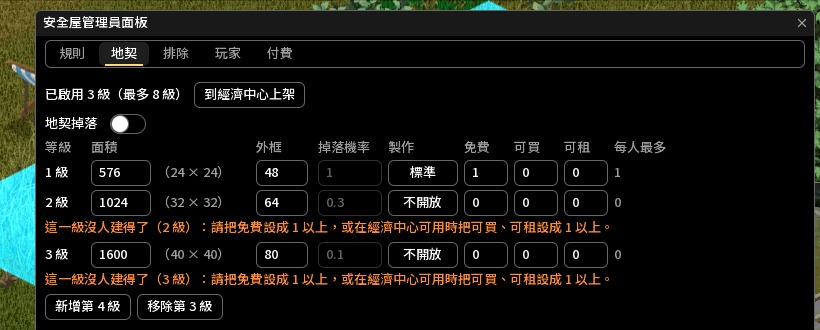
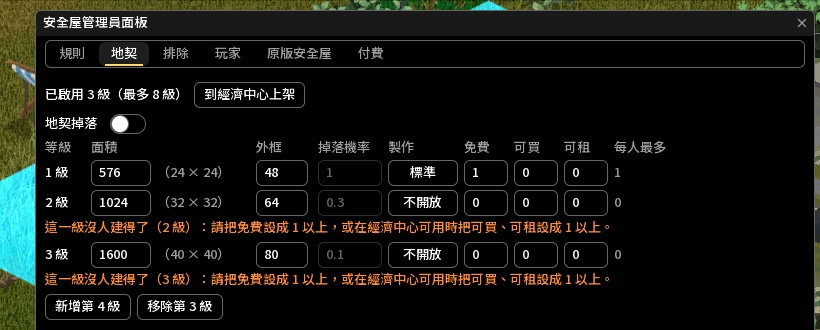
管理員面板的原版安全屋改成獨立分頁
使用者看完 c3af13d 後要原版安全屋自己一頁：「額外一個分頁比較好，才不會資訊多的時候跟其他東西混合了」。

- 分頁 foreign 排在玩家與付費之間，標籤沿用原段標題各語的字（IGUI_MSH_Admin_ForeignHead 改名 IGUI_MSH_Admin_Tab_foreign）；頁內不再有標題，底列只有〔重新載入〕。規則頁的遷移狀態與需要處理的安全屋照舊。
- 分頁列不給寬度、照字寬排，面板至少那麼寬：框架 Tabs 不縮字、放不下就畫出框外，西語六頁實測右緣 752 px，預設面板的分頁列只有 756 px。
- FOREIGN_APPEARED 提示 16 語改成指向新分頁；用 CatLang 與原版字型模擬換行（數字到三位數），最多 5 行，在上限內。
- Steam 指南「五個分頁」改成六個，09-admin-rules、10-admin-deeds 中英四張改取 ui-mp 新的兩輪；README、CHANGELOG 同步。

驗證：verify_mod 18 項全過；smoke_harness 2299 項全過（分頁列照字寬排、規則頁沒有這段、原版安全屋頁沒有〔套用變更〕各 1 項，逐一植入違規都會 FAIL）。E2E foreign-mp 繁中 sh-fb-after-1023c、西語 sh-fb-after-es-1023c 各 20 步／100 檢查、uiErrors=0；ui-mp 繁中 sh-tab6-uich-1023a、英文 sh-tab6-uien-1023a 都是 A 43 步／78 檢查、B 10 步／12 檢查、uiErrors=0。

Changed region(s): [[0.9756, 0.1212, 1.0, 0.7273], [0.3049, 0.1212, 0.4878, 0.1818], [0.9756, 0.8485, 1.0, 1.0]]

diff --git a/README.md b/README.md
@@ -28,7 +28,7 @@ Project Zomboid Build 42 MOD。
 - **車開不進去**：車上只要有人不能進那間安全屋（包括坐乘客座的人；拖著的拖車也算），車子開到邊界前就停下來，畫面提示是誰不能進（你自己或車上的人）。原本就停在範圍裡的車可以往外開走，只是不能再往裡開。屋主、分享名單上的人和管理員照常開進去；每一間安全屋都適用，包括不是本 MOD 建的。
 - **伺服器權威**：建立、放棄、分享、名額都由伺服器判定；有人用原版封包改本 MOD 安全屋的屋主、名稱或成員時，伺服器每輪把它改回來；被刪掉的安全屋自動重建。
 - **名額**：每個地契等級各設三個數字：每位玩家免費幾間、最多買斷幾個名額、最多同時租幾個名額，這一級每人最多幾間＝三者相加；預設只有 1 級免費 1 間。買斷與月租需要 Economy，價格由管理員逐級設定。
-- **管理員面板**：五頁（規則、地契、排除、玩家、付費），改完按「套用變更」立即寫回伺服器沙盒設定並同步給線上玩家。
+- **管理員面板**：六頁（規則、地契、排除、玩家、原版安全屋、付費），改完按「套用變更」立即寫回伺服器沙盒設定並同步給線上玩家。
 
 ## 需要什麼
 
@@ -105,10 +105,11 @@ Project Zomboid Build 42 MOD。
 
 需要原版「設定安全屋」權限（`CanSetupSafehouses`）的角色才能開。
 
-- **規則**：建立方式、間距、每間最多塊數、分享上限、保留天數、閒置收回天數與保險開關、陣營分享、重新框選的時限與次數、玩家在地面看得到哪些別人的安全屋、物品搜尋（關閉／只指引／可以遠距拿，以及遠距拿取可以站在安全屋外幾格內；只在選「可以遠距拿」時能改）；也顯示伺服器設定狀態、接管舊安全屋的結果、不歸本 MOD 管的原版安全屋（可以〔傳送〕或〔釋出...〕），以及處理異常安全屋（重新綁定屋主或釋出）。
+- **規則**：建立方式、間距、每間最多塊數、分享上限、保留天數、閒置收回天數與保險開關、陣營分享、重新框選的時限與次數、玩家在地面看得到哪些別人的安全屋、物品搜尋（關閉／只指引／可以遠距拿，以及遠距拿取可以站在安全屋外幾格內；只在選「可以遠距拿」時能改）；也顯示伺服器設定狀態、接管舊安全屋的結果，以及處理異常安全屋（重新綁定屋主或釋出）。
 - **地契**：只列啟用的等級，表格底下〔新增第 N 級〕〔移除第 N 級〕（最多 8 級，按〔套用變更〕才生效）；地契掉落總開關（關著時掉落欄反灰）；各級最大面積（旁邊寫出相當於幾乘幾，打字時跟著變）、外框上限、掉落機率、製作難度（滑鼠移到「製作」格可預覽配方），以及名額三欄「免費」「可買」「可租」（填數字），「每人最多」欄自動顯示三者相加。有支援的 Economy 時多一顆「到經濟中心上架」。
 - **排除**：道路、安全邊界與類別；資源點的判定方式與類別（沒有 MiniMap 時藏起來，寫明要裝小地圖 MOD 才有這個功能）；禁建區個數與〔管理禁建區〕（清單、搜尋、〔傳送〕、新增、刪除與壓到各禁建區的安全屋在另開的禁建區視窗）。
 - **玩家**：伺服器分頁搜尋（每頁 50 位），可以按〔1 級免費名額...〕替個別玩家改 1 級的免費名額（只改 1 級；留空＝用全服預設）、查看、代為放棄（會寫稽核記錄）。
+- **原版安全屋**：不歸本 MOD 管的原版安全屋（接管時留下的，或裝好本 MOD 之後才出現的），每間可以〔傳送〕過去看或〔釋出...〕；詳見下面「從 Better Safehouse 或原版安全屋接手」。
 - **付費**（Economy 可用時）：逐級設定買斷價、每期租金與保險每日價（只列啟用的等級），以及共用的幣別、租期、寬限、提醒與自動續租。每人能買、租幾個不在這頁設，頁面上寫著「要不要販售、每人能買或租幾個，看「地契」頁的可買、可租。」
 
 原版管理員指令 `/releasesafehouse`、`/addusertosafehouse`、`/kickuserfromsafehouse` 以安全屋名稱找第一間符合的，名稱重複時會打到別間；用它加進本 MOD 安全屋的人也會在下一輪被移除。本 MOD 的安全屋一律從管理員面板處理。
@@ -139,7 +140,7 @@ Project Zomboid Build 42 MOD。
 
 - 屋主、範圍、名稱照舊；原本的成員（含 Better Safehouse 的副管理者）變成一般分享對象，權限是成員、用電器、搬家具、建造、農耕（等同原版成員能做的事），沒有「邀請」與「管理」；屋主之後可以自己調整。
 - 接管來的安全屋都算 1 級、先佔屋主的 1 級免費名額；超出免費名額的也全部保留、不需要付費名額，只是屋主再建 1 級時要等免費名額空出來或用付費名額。壓到道路或資源點的舊安全屋也保留。接管來的安全屋不能重新框選。
-- 這些安全屋留在原地當原版安全屋，本 MOD 不管理也不自動刪除：範圍不合法、屋主名稱不合法、和另一間範圍或左上角相同、超過全服 256 間，或成員多到接管後會擠掉之後新建與分享的空間（依建立時間由舊到新接管，接管最多用掉一半的資料空間）。清單在 `Zomboid/Lua/MinidoracatSafehouse/<伺服器名>/migration-completion.txt` 的 `skip` 列。它們和裝好本 MOD 之後才出現的原版安全屋一樣不會到期：閒置收回不管它們，原版的到期刪除也因為 `SafeHouseRemovalTime` 必須是 0 而關著，所以不會自己消失。管理員面板「規則」頁的「原版安全屋」列出它們：屋主、成員人數、大小、座標、多久沒人進去（伺服器關著的時間也算，閒置收回不算）、接管時留下的原因，超過閒置收回天數的另外標出；每間可以〔傳送〕過去看，或〔釋出...〕拿掉那一間的保護（屋裡的東西留在原地）。最多列 20 間，最久沒人進去的在前。之後伺服器上多了原版安全屋時，在線管理員會收到提示。名稱超過 40 字的會截短。
+- 這些安全屋留在原地當原版安全屋，本 MOD 不管理也不自動刪除：範圍不合法、屋主名稱不合法、和另一間範圍或左上角相同、超過全服 256 間，或成員多到接管後會擠掉之後新建與分享的空間（依建立時間由舊到新接管，接管最多用掉一半的資料空間）。清單在 `Zomboid/Lua/MinidoracatSafehouse/<伺服器名>/migration-completion.txt` 的 `skip` 列。它們和裝好本 MOD 之後才出現的原版安全屋一樣不會到期：閒置收回不管它們，原版的到期刪除也因為 `SafeHouseRemovalTime` 必須是 0 而關著，所以不會自己消失。管理員面板的「原版安全屋」頁列出它們：屋主、成員人數、大小、座標、多久沒人進去（伺服器關著的時間也算，閒置收回不算）、接管時留下的原因，超過閒置收回天數的另外標出；每間可以〔傳送〕過去看，或〔釋出...〕拿掉那一間的保護（屋裡的東西留在原地）。最多列 20 間，最久沒人進去的在前。之後伺服器上多了原版安全屋時，在線管理員會收到提示。名稱超過 40 字的會截短。
 - 原版或 Better Safehouse 的「在安全屋重生」勾選會換成本 MOD 的重生點（那間安全屋中央）；安全屋聊天不搬。
 - Better Safehouse 存在世界資料裡的記錄不讀也不改。
 - Better Safehouse 自己的地契物品（3.1.1 有 5 種）在它從 `Mods=` 拿掉後，第一次載入就會從玩家身上與容器裡消失，裝回來也找不回。要補償的話，由管理員改發本 MOD 的地契；切換前先公告。

diff --git a/STEAM_GUIDE_EN.md b/STEAM_GUIDE_EN.md
@@ -485,10 +485,10 @@ The admin panel reminds you if these differ; nothing is disabled.
 [*] [b]Apply[/b]: press "Apply changes"; changes are written to the server's sandbox settings at once and synced to online players.
 [*] [b]Window size[/b]: drag the bottom-right corner to resize.
 [/list]
-[h3]Five tabs[/h3]
+[h3]Six tabs[/h3]
 {{img:10-admin-deeds-en.jpg}}
 [list]
-[*] [b]Rules[/b]: creation mode, gap, max pieces, share limit, keep days, idle release days and "Sell idle-release insurance", faction sharing, redraw time and count, which other safehouses players see on the ground, and item search (Off / Guide only / Remote take, plus how many tiles outside the safehouse remote take still works); also the server settings status, takeover results, vanilla safehouses and safehouses needing attention.
+[*] [b]Rules[/b]: creation mode, gap, max pieces, share limit, keep days, idle release days and "Sell idle-release insurance", faction sharing, redraw time and count, which other safehouses players see on the ground, and item search (Off / Guide only / Remote take, plus how many tiles outside the safehouse remote take still works); also the server settings status, takeover results and safehouses needing attention.
 [*] [b]Deeds[/b]: only enabled tiers, with "Add tier N" / "Remove tier N" below the table (up to 8 tiers; takes effect on "Apply changes").
 [list]
 [*] The master "Deeds drop as loot" switch; the loot column is greyed out while it's off.
@@ -499,6 +499,7 @@ The admin panel reminds you if these differ; nothing is disabled.
 [/list]
 [*] [b]Exclusions[/b]: roads, margin and road kinds; resource detection and categories (hidden without MiniMap, with a note that it needs the MiniMap mod); no-build zones: "Manage no-build zones" hides the panel and opens the no-build zone window on the right side of the screen. Each zone in the list shows its top-left corner, outline and piece count; you can search names, press "Teleport" to go to its center (needs the teleport-to-coordinates permission) and "Delete" (asks first); safehouses already inside a zone are listed under it (they aren't removed, so the admin decides what to do). While the window is open, zones are drawn bright red on the ground and the one you teleported to is yellow. "Add no-build zone" opens the same area tool as creating a safehouse (drag or walk to two corners, add or cut pieces), then you name it and press "Save zone"; saving or canceling brings you back to the zone window. Up to 100 zones; closing the zone window returns to the admin panel.
 [*] [b]Players[/b]: server-side paged search (50 per page); "Tier 1 free slots…" changes one player's tier 1 free slots (tier 1 only; leave it empty to use the server default), view, or release on their behalf (logged to the audit log).
+[*] [b]Vanilla safehouses[/b]: vanilla safehouses this mod doesn't manage; see "Vanilla safehouses" below.
 [*] [b]Paid slots[/b] (with Economy available): buy price, rent per period and insurance per day for each enabled tier, plus shared currency, period, grace, reminder and auto-renew.
 [list]
 [*] Only currencies enabled in the Economy are listed; you're warned if the current one gets disabled.
@@ -513,7 +514,7 @@ The admin panel reminds you if these differ; nothing is disabled.
 [/list]
 [h3]Vanilla safehouses[/h3]
 [list]
-[*] [b]Where[/b]: "Vanilla safehouses" on the Rules tab lists the vanilla safehouses this mod doesn't manage (left over from the takeover, or created after this mod was installed).
+[*] [b]Where[/b]: the admin panel's Vanilla safehouses tab lists the vanilla safehouses this mod doesn't manage (left over from the takeover, or created after this mod was installed).
 [*] [b]Each row shows[/b]: owner, member count, size, coordinates, how long nobody has gone in (server downtime counts here, unlike idle release), and where it came from; the ones past the idle release days are marked. Up to 20 are listed, longest unvisited first.
 [*] [b]"Teleport"[/b]: takes you to its center (needs the teleport-to-coordinates permission).
 [*] [b]"Release…"[/b]: removes that safehouse's protection; what's inside stays where it is, and it can't be undone.
@@ -620,7 +621,7 @@ These stay where they are as vanilla safehouses; this mod doesn't manage them or
 [list]
 [*] [b]List[/b]: the skip lines in Zomboid/Lua/MinidoracatSafehouse/<server name>/migration-completion.txt.
 [*] [b]They never expire[/b]: idle reclaim leaves them alone, and the vanilla expiry is off because SafeHouseRemovalTime must be 0, so they never go away on their own; the same goes for vanilla safehouses that appear after this mod is installed.
-[*] [b]Handling them[/b]: "Teleport" there to take a look, or "Release…" them, from "Vanilla safehouses" on the admin panel's Rules tab.
+[*] [b]Handling them[/b]: "Teleport" there to take a look, or "Release…" them, from the admin panel's Vanilla safehouses tab.
 [/list]
 [h3]Rolling back[/h3]
 [list]

diff --git a/STEAM_GUIDE.md b/STEAM_GUIDE.md
@@ -485,10 +485,10 @@ https://steamcommunity.com/sharedfiles/filedetails/?id=3819478078
 [*] [b]套用[/b]：改完按〔套用變更〕，立即寫回伺服器沙盒設定並同步給線上玩家。
 [*] [b]視窗大小[/b]：拉右下角可以改大小。
 [/list]
-[h3]五個分頁[/h3]
+[h3]六個分頁[/h3]
 {{img:10-admin-deeds-zh.jpg}}
 [list]
-[*] [b]規則[/b]：建立方式、間距、每間最多塊數、分享上限、保留天數、閒置收回天數與「販售閒置保險」、陣營分享、重新框選的時限與次數、玩家在地面看得到哪些別人的安全屋、物品搜尋（關閉／只指引／可以遠距拿，以及遠距拿取可以站在安全屋外幾格內）；也顯示伺服器設定狀態、接管舊安全屋的結果、原版安全屋與需要處理的安全屋。
+[*] [b]規則[/b]：建立方式、間距、每間最多塊數、分享上限、保留天數、閒置收回天數與「販售閒置保險」、陣營分享、重新框選的時限與次數、玩家在地面看得到哪些別人的安全屋、物品搜尋（關閉／只指引／可以遠距拿，以及遠距拿取可以站在安全屋外幾格內）；也顯示伺服器設定狀態、接管舊安全屋的結果與需要處理的安全屋。
 [*] [b]地契[/b]：只列啟用的等級，表格底下〔新增第 N 級〕〔移除第 N 級〕（最多 8 級，按〔套用變更〕才生效）。
 [list]
 [*] 地契掉落總開關，關著時掉落欄反灰。
@@ -499,6 +499,7 @@ https://steamcommunity.com/sharedfiles/filedetails/?id=3819478078
 [/list]
 [*] [b]排除[/b]：道路、安全邊界與類別；資源點的判定方式與類別（沒有 MiniMap 時藏起來，寫明要裝小地圖 MOD 才有這個功能）；禁建區：按〔管理禁建區〕先收起面板，在畫面右側開禁建區視窗。清單每個禁建區寫左上角、外框與塊數，可以搜尋名稱，按〔傳送〕到它的中央（要有傳送到座標的權限），有〔刪除〕（先確認），已經有安全屋壓到的另外列出（不會被移除，由管理員決定怎麼處理）；視窗開著時地上用亮紅色畫出禁建區，傳送過去的那個用黃色。〔新增禁建區〕用和建立安全屋一樣的框選（拖曳或走到兩角，可以加入、挖掉拼成多塊）框出範圍、取名稱後按〔儲存禁建區〕，存好或取消後回到禁建區視窗。最多 100 個；關掉禁建區視窗就回到管理員面板。
 [*] [b]玩家[/b]：伺服器分頁搜尋（每頁 50 位），可以按〔1 級免費名額...〕替個別玩家改 1 級的免費名額（只改 1 級；留空＝用全服預設）、查看、代為放棄（會寫稽核記錄）。
+[*] [b]原版安全屋[/b]：不歸本 MOD 管的原版安全屋，見下面「原版安全屋」。
 [*] [b]付費[/b]（Economy 可用時）：逐級設定買斷價、每期租金與每日保險費（只列啟用的等級），以及共用的幣別、租期、寬限、提醒與自動續租。
 [list]
 [*] 只列經濟中心啟用中的幣別；目前用的幣別被停用時會提醒改選。
@@ -513,7 +514,7 @@ https://steamcommunity.com/sharedfiles/filedetails/?id=3819478078
 [/list]
 [h3]原版安全屋[/h3]
 [list]
-[*] [b]在哪裡[/b]：「規則」頁的「原版安全屋」，列出不歸本 MOD 管的原版安全屋（接管時留下的，或裝好本 MOD 之後才出現的）。
+[*] [b]在哪裡[/b]：管理員面板的「原版安全屋」頁，列出不歸本 MOD 管的原版安全屋（接管時留下的，或裝好本 MOD 之後才出現的）。
 [*] [b]每間寫[/b]：屋主、成員人數、大小、座標、多久沒人進去（伺服器關著的時間也算，閒置收回不算）、怎麼來的；超過閒置收回天數的另外標出。最多列 20 間，最久沒人進去的在前。
 [*] [b]〔傳送〕[/b]：傳送到那間的中央（要有傳送到座標的權限）。
 [*] [b]〔釋出...〕[/b]：拿掉那一間的保護，屋裡的東西留在原地，無法復原。
@@ -620,7 +621,7 @@ https://steamcommunity.com/sharedfiles/filedetails/?id=3819478078
 [list]
 [*] [b]清單[/b]：Zomboid/Lua/MinidoracatSafehouse/<伺服器名>/migration-completion.txt 的 skip 列。
 [*] [b]不會到期[/b]：閒置收回不管它們，原版的到期刪除也因為 SafeHouseRemovalTime 必須是 0 而關著，所以不會自己消失；裝好本 MOD 之後才出現的原版安全屋也一樣。
-[*] [b]處理[/b]：在管理員面板「規則」頁的「原版安全屋」〔傳送〕過去看，或〔釋出...〕。
+[*] [b]處理[/b]：在管理員面板的「原版安全屋」頁〔傳送〕過去看，或〔釋出...〕。
 [/list]
 [h3]還原[/h3]
 [list]

diff --git a/CHANGELOG.md b/CHANGELOG.md
@@ -16,8 +16,8 @@
 
 ### 新增
 
-- **管理員面板列出原版安全屋，可以傳送、釋出**：不歸本 MOD 管的原版安全屋（中途安裝時留在原版的，或裝好本 MOD 之後才出現的）現在列在管理員面板「規則」頁的「原版安全屋」。每間寫屋主、成員人數、大小、座標、多久沒人進去，以及怎麼來的（接管時留下的寫原因）；超過閒置收回天數的另外標出。每間有〔傳送〕（帳號要有傳送到座標的權限）與〔釋出...〕：釋出只拿掉那一間的保護，屋裡的東西留在原地，在線玩家的原版安全屋清單也同時少掉那一間。最多列 20 間，最久沒人進去的在前，其餘寫還有幾間。這些安全屋照舊不會自己到期，要不要釋出由管理員決定。
-- **多了原版安全屋時提示管理員**：伺服器上新出現原版安全屋時，在線管理員畫面右上角跳出提示；管理員面板開著的話，「原版安全屋」那一段自己更新。
+- **管理員面板列出原版安全屋，可以傳送、釋出**：不歸本 MOD 管的原版安全屋（中途安裝時留在原版的，或裝好本 MOD 之後才出現的）現在列在管理員面板新增的「原版安全屋」頁。每間寫屋主、成員人數、大小、座標、多久沒人進去，以及怎麼來的（接管時留下的寫原因）；超過閒置收回天數的另外標出。每間有〔傳送〕（帳號要有傳送到座標的權限）與〔釋出...〕：釋出只拿掉那一間的保護，屋裡的東西留在原地，在線玩家的原版安全屋清單也同時少掉那一間。最多列 20 間，最久沒人進去的在前，其餘寫還有幾間。這些安全屋照舊不會自己到期，要不要釋出由管理員決定。
+- **多了原版安全屋時提示管理員**：伺服器上新出現原版安全屋時，在線管理員畫面右上角跳出提示；管理員面板開著的話，「原版安全屋」頁自己更新。
   > 技術要點：伺服器每分鐘比對一次，新出現的要連續兩次都在才提示，開服當下已經有的不提示。稽核記錄有 `FOREIGN_APPEARED`（新出現）與 `FOREIGN_RELEASED`（管理員釋出）。釋出時伺服器核對範圍、屋主與建立時間三樣都對上才動手，本 MOD 的安全屋碰不到。「多久沒人進去」從最後有成員進屋算到現在，伺服器關著的時間也算（閒置收回不算停機）。
 
 ### 變更
